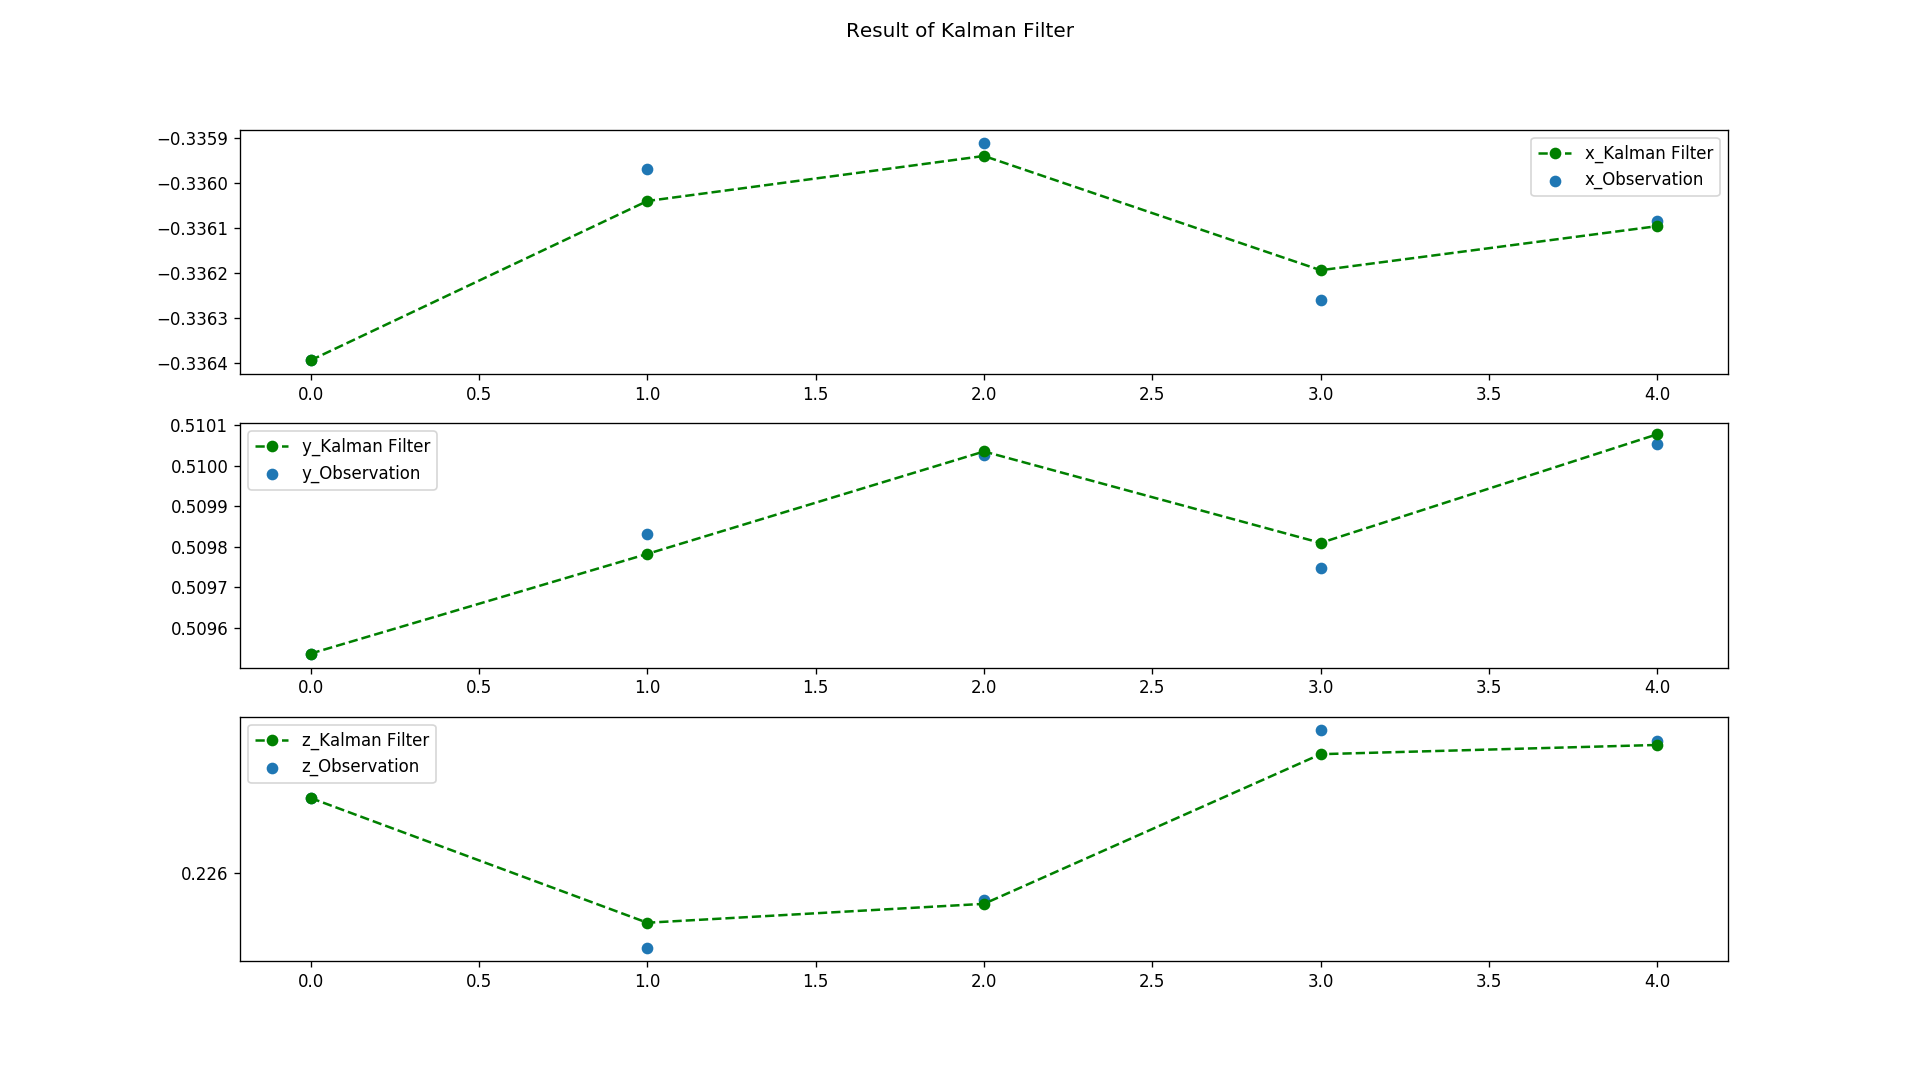
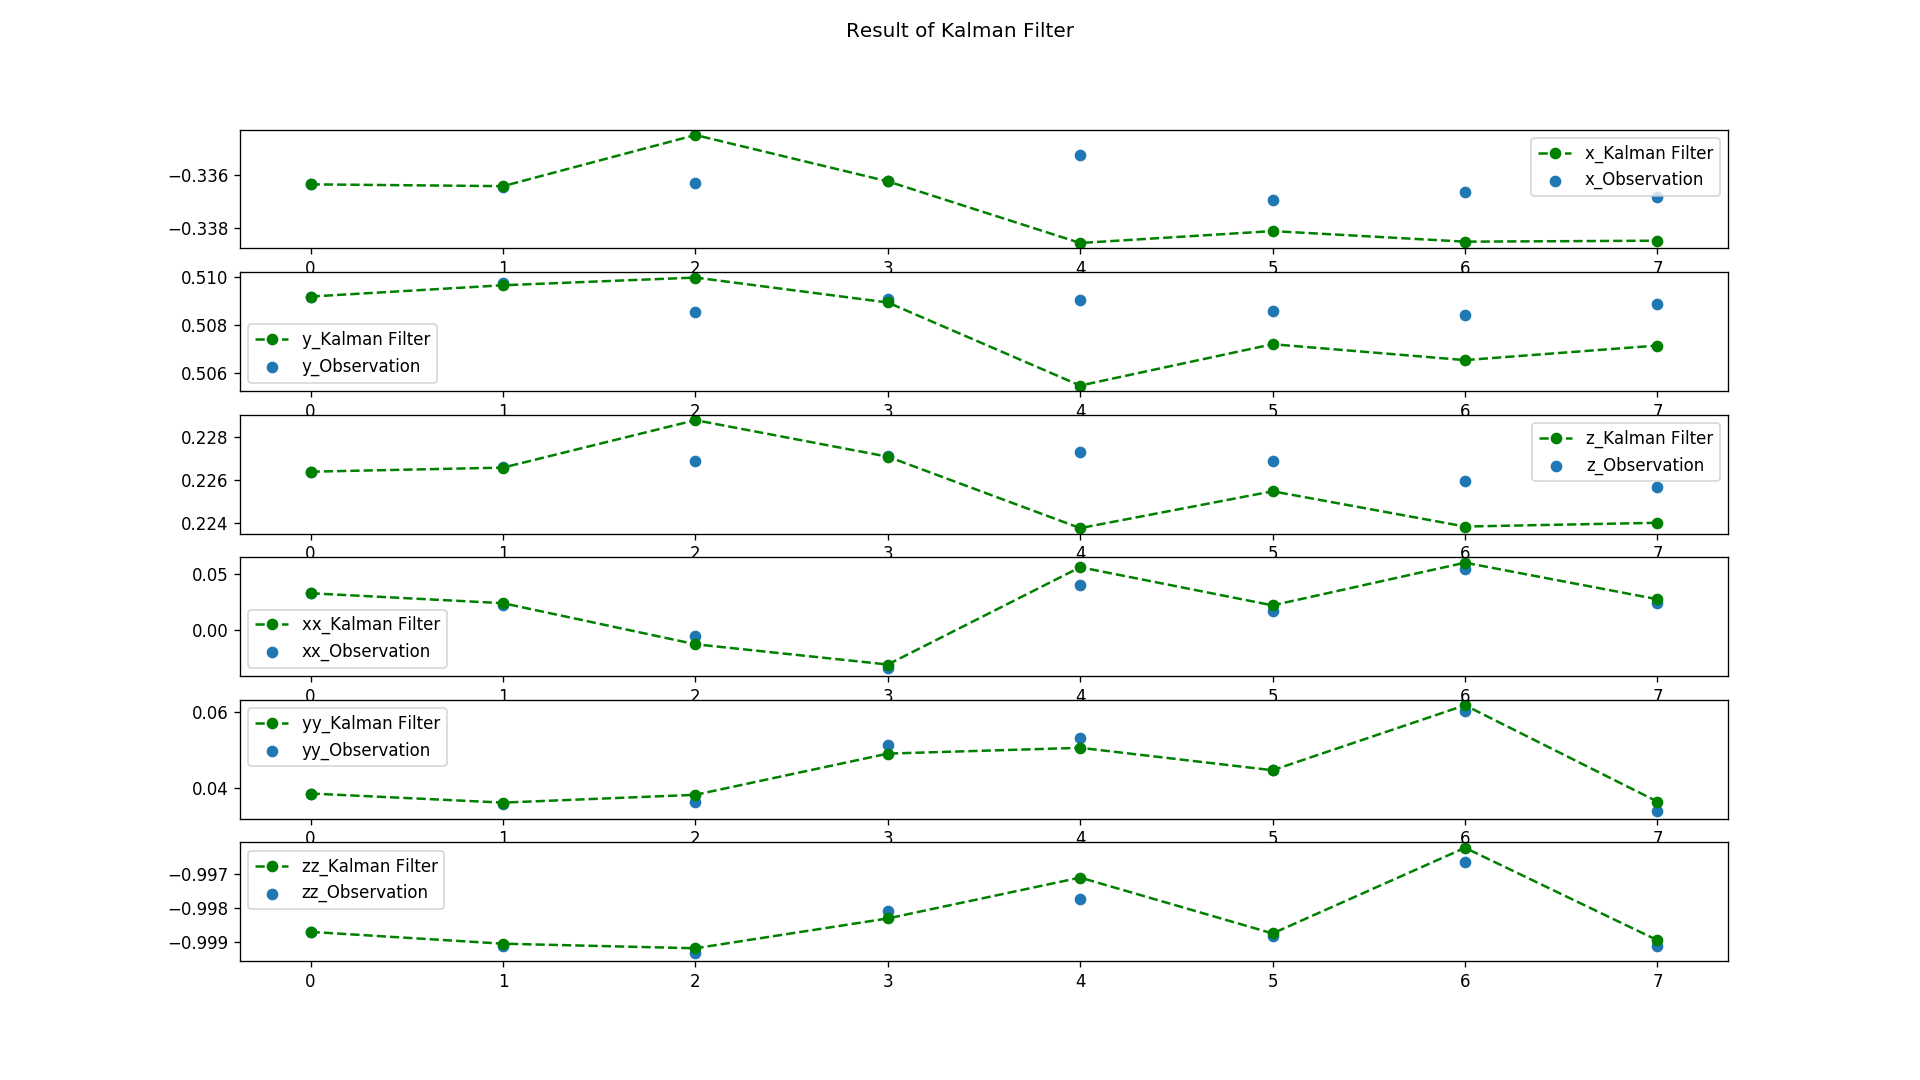
RANSAC_enabled

diff --git a/rokae/src/ur_real_robot/ur_control/scripts/kalman.py b/rokae/src/ur_real_robot/ur_control/scripts/kalman.py
@@ -28,23 +28,23 @@ class Kalman:
         self.itr_sum=0
         self.finished=False
         self.plt_time=0
-        # self.A = np.diag([1,1,1,1,1,1])
-        self.A=np.diag([1,1,1])
+        self.A = np.diag([1,1,1,1,1,1])
+        # self.A=np.diag([1,1,1])
         self.B = 0
         self.U1 = 0
-        # self.R = np.diag([0.01,0.01,0.01,0.2,0.2,0.2])
-        self.R = np.diag([0.01,0.01,0.01])
-        # self.P0=np.diag([0.05,0.05,0.05,1,1,1])
-        self.P0=np.diag([0.05,0.05,0.05])
-        # self.Q=np.diag([0,0,0,0,0,0])
-        self.Q=np.diag([0,0,0])
-        # self.H = np.diag([1,1,1,1,1,1])
-        self.H = np.diag([1,1,1])
+        self.R = np.diag([0.01,0.01,0.01,0.01,0.01,0.01])
+        # self.R = np.diag([0.01,0.01,0.01])
+        self.P0=np.diag([0.05,0.05,0.05,0.05,0.05,0.05])
+        # self.P0=np.diag([0.05,0.05,0.05])
+        self.Q=np.diag([0,0,0,0,0,0])
+        # self.Q=np.diag([0,0,0])
+        self.H = np.diag([1,1,1,1,1,1])
+        # self.H = np.diag([1,1,1])
         self.P1_list=[self.P0]
-        # self.X1_np=np.array([0,0,0,0,0,0]).reshape([6,1])
-        # self.Z1_np=np.array([0,0,0,0,0,0]).reshape([6,1])
-        self.X1_np=np.array([0,0,0]).reshape([3,1])
-        self.Z1_np=np.array([0,0,0]).reshape([3,1])
+        self.X1_np=np.array([0,0,0,0,0,0]).reshape([6,1])
+        self.Z1_np=np.array([0,0,0,0,0,0]).reshape([6,1])
+        # self.X1_np=np.array([0,0,0]).reshape([3,1])
+        # self.Z1_np=np.array([0,0,0]).reshape([3,1])
 
 
 
@@ -58,9 +58,9 @@ class Kalman:
         V = Z - np.dot(self.H, X10)
         K = np.dot(np.dot(P10, self.H.T), np.linalg.pinv(np.dot(np.dot(self.H, P10), self.H.T) + self.R))
         X1 = X10 + np.dot(K, V)
-        # Sqrt=math.sqrt(pow(X1[3,0],2)+pow(X1[4,0],2)+pow(X1[5,0],2))
-        # for i in range(3):
-        #     X1[i+3,0]=X1[i+3,0]/Sqrt
+        Sqrt=math.sqrt(pow(X1[3,0],2)+pow(X1[4,0],2)+pow(X1[5,0],2))
+        for i in range(3):
+            X1[i+3,0]=X1[i+3,0]/Sqrt
         P1 = np.dot(1 - np.dot(K, self.H), P10)
         return (X1, P1)
     
@@ -69,14 +69,24 @@ class Kalman:
         x=pose.position.x
         y=pose.position.y
         z=pose.position.z
-        # r=sci_R.from_quat([pose.orientation.x, pose.orientation.y, pose.orientation.z, pose.orientation.w])
-        # e=np.dot(r.as_dcm(),np.array([0,0,1]).reshape([3,1]))
-        # xx=e[0,0]
-        # yy=e[1,0]
-        # zz=e[2,0]
-        # Zi=np.array([x, y, z,xx,yy,zz]).reshape([6, 1])
-        # print(xx,yy,zz)
-        Zi=np.array([x, y, z]).reshape([3, 1])
+        r=sci_R.from_quat([pose.orientation.x, pose.orientation.y, pose.orientation.z, pose.orientation.w])
+        e=np.dot(r.as_dcm(),np.array([0,0,1]).reshape([3,1]))
+        xx=e[0,0]
+        yy=e[1,0]
+        zz=e[2,0]
+        while (zz>-0.996):
+            xx=xx/2
+            yy=yy/2
+            zz=zz-1
+            sqrt=math.sqrt(pow(xx,2)+pow(yy,2)+pow(zz,2))
+            xx=xx/sqrt
+            yy=yy/sqrt
+            zz=zz/sqrt           
+
+
+        Zi=np.array([x, y, z,xx,yy,zz]).reshape([6, 1])
+        print(xx,yy,zz)
+        # Zi=np.array([x, y, z]).reshape([3, 1])
         print ("the %d-th iteration"%(s))
         if (s==0):
             self.X1_np= np.copy(Zi)
@@ -88,53 +98,53 @@ class Kalman:
             Z1_pose.position.y = Zi[1,0]
             Z1_pose.position.z = Zi[2,0]
 
-            # Z1_vector=Zi[[3,4,5],:].reshape([1,3])
-            # Z1_quat=(self.transform_vector(Z1_vector)).reshape([1,4])
-            # Z1_pose.orientation.x = Z1_quat[0,0]
-            # Z1_pose.orientation.y = Z1_quat[0,1]
-            # Z1_pose.orientation.z = Z1_quat[0,2]
-            # Z1_pose.orientation.w= Z1_quat[0,3]
+            Z1_vector=Zi[[3,4,5],:].reshape([1,3])
+            Z1_quat=(self.transform_vector(Z1_vector)).reshape([1,4])
+            Z1_pose.orientation.x = Z1_quat[0,0]
+            Z1_pose.orientation.y = Z1_quat[0,1]
+            Z1_pose.orientation.z = Z1_quat[0,2]
+            Z1_pose.orientation.w= Z1_quat[0,3]
             
             return Z1_pose
 
         else:
-            # Xi = self.X1_np[:, s - 1].reshape([6, 1])
-            Xi = self.X1_np[:, s - 1].reshape([3, 1])
+            Xi = self.X1_np[:, s - 1].reshape([6, 1])
+            # Xi = self.X1_np[:, s - 1].reshape([3, 1])
             Pi = self.P1_list[s - 1]
             X10, P10 = self.kf_predict(Xi, Pi)
             X1, P1=self. kf_update(X10, P10, Zi)
+
             self.Z1_np = np.concatenate([self.Z1_np, Zi], axis=1)
             self.X1_np = np.concatenate([self.X1_np, X1], axis=1)
             self.P1_list.append(P1)
             self.itr_time+= 1
             self.itr_sum+= 1
 
-            # X1_vector=X1[[3,4,5],:].reshape([1,3])
-            # Xi_vector=Xi[[3,4,5],:].reshape([3,1])
-            # X1_quat=(self.transform_vector(X1_vector)).reshape([1,4])
+            X1_vector=X1[[3,4,5],:].reshape([1,3])
+            Xi_vector=Xi[[3,4,5],:].reshape([3,1])
+            X1_quat=(self.transform_vector(X1_vector)).reshape([1,4])
 
             if(self.itr_time==self.itr_num):
                 self.finished=True
             else:
                 dist=math.sqrt(pow(X1[0,0]-Xi[0,0],2)+pow(X1[1,0]-Xi[1,0],2)+pow(X1[2,0]-Xi[2,0],2))
                 
-                # ang_mat=np.dot(X1_vector,Xi_vector)
-                # ang_dist=ang_mat[0,0]
-                # print('ang_dist:')
-                # print(ang_dist)
-                # if (dist<0.001) and (ang_dist>0.996):
-
-                if (dist < 0.0005):
+                ang_mat=np.dot(X1_vector,Xi_vector)
+                ang_dist=ang_mat[0,0]
+                print('ang_dist:')
+                print(ang_dist)
+                if (dist<0.001) and (ang_dist>0.999):
+                # if (dist < 0.0005):
                     self.finished=True
             X1_pose = geometry_msgs.msg.Pose()
             X1_pose.position.x = X1[0,0]
             X1_pose.position.y = X1[1,0]
             X1_pose.position.z = X1[2,0]
 
-            # X1_pose.orientation.x = X1_quat[0,0]
-            # X1_pose.orientation.y = X1_quat[0,1]
-            # X1_pose.orientation.z = X1_quat[0,2]
-            # X1_pose.orientation.w= X1_quat[0,3]
+            X1_pose.orientation.x = X1_quat[0,0]
+            X1_pose.orientation.y = X1_quat[0,1]
+            X1_pose.orientation.z = X1_quat[0,2]
+            X1_pose.orientation.w= X1_quat[0,3]
 
             return X1_pose
 
@@ -153,19 +163,19 @@ class Kalman:
 
     def get_former_pose(self):
         s=self.itr_sum
-        # Xi=self.X1_np[:, s - 1].reshape([6, 1])
-        Xi=self.X1_np[:, s - 1].reshape([3, 1])        
+        Xi=self.X1_np[:, s - 1].reshape([6, 1])
+        # Xi=self.X1_np[:, s - 1].reshape([3, 1])        
         Xi_pose = geometry_msgs.msg.Pose()
         Xi_pose.position.x = Xi[0,0]
         Xi_pose.position.y = Xi[1,0]
         Xi_pose.position.z = Xi[2,0]
 
-        # Xi_vector=Xi[[3,4,5],:].reshape([1,3])
-        # Xi_quat=(self.transform_vector(Xi_vector)).reshape([1,4])
-        # Xi_pose.orientation.x = Xi_quat[0,0]
-        # Xi_pose.orientation.y = Xi_quat[0,1]
-        # Xi_pose.orientation.z = Xi_quat[0,2]
-        # Xi_pose.orientation.w= Xi_quat[0,3]
+        Xi_vector=Xi[[3,4,5],:].reshape([1,3])
+        Xi_quat=(self.transform_vector(Xi_vector)).reshape([1,4])
+        Xi_pose.orientation.x = Xi_quat[0,0]
+        Xi_pose.orientation.y = Xi_quat[0,1]
+        Xi_pose.orientation.z = Xi_quat[0,2]
+        Xi_pose.orientation.w= Xi_quat[0,3]
 
         return Xi_pose
 
@@ -179,44 +189,45 @@ class Kalman:
 
     def plot(self):
         if (self.itr_time!=0):
+
+            # np.savetxt("filt_25.csv",self.X1_np,delimiter=",")
+            # np.savetxt("obs_25.csv",self.Z1_np,delimiter=",")
+
             fig = plt.figure(figsize=(16,9)  , dpi=120)
 
 
-            # ax1 = fig.add_subplot(6, 1, 1)
-            # ax2 = fig.add_subplot(6, 1, 2)
-            # ax3 = fig.add_subplot(6, 1, 3)
-            # ax4 = fig.add_subplot(6, 1, 4)
-            # ax5 = fig.add_subplot(6, 1, 5)
-            # ax6 = fig.add_subplot(6, 1, 6)
-            ax1 = fig.add_subplot(3, 1, 1)
-            ax2 = fig.add_subplot(3, 1, 2)
-            ax3 = fig.add_subplot(3, 1, 3)
+            ax1 = fig.add_subplot(6, 1, 1)
+            ax2 = fig.add_subplot(6, 1, 2)
+            ax3 = fig.add_subplot(6, 1, 3)
+            ax4 = fig.add_subplot(6, 1, 4)
+            ax5 = fig.add_subplot(6, 1, 5)
+            ax6 = fig.add_subplot(6, 1, 6)
+            # ax1 = fig.add_subplot(3, 1, 1)
+            # ax2 = fig.add_subplot(3, 1, 2)
+            # ax3 = fig.add_subplot(3, 1, 3)
             print('plot is working')
 
             ax1.plot(self.X1_np[0, :], 'go--', label="x_Kalman Filter")
             ax2.plot(self.X1_np[1, :], 'go--', label="y_Kalman Filter")
             ax3.plot(self.X1_np[2, :], 'go--', label="z_Kalman Filter")
-            # ax4.plot(self.X1_np[3, :], 'go--', label="xx_Kalman Filter")
-            # ax5.plot(self.X1_np[4, :], 'go--', label="yy_Kalman Filter")
-            # ax6.plot(self.X1_np[5, :], 'go--', label="zz_Kalman Filter")
-            x_major_locator = MultipleLocator(0.001)
+            ax4.plot(self.X1_np[3, :], 'go--', label="xx_Kalman Filter")
+            ax5.plot(self.X1_np[4, :], 'go--', label="yy_Kalman Filter")
+            ax6.plot(self.X1_np[5, :], 'go--', label="zz_Kalman Filter")
+
 
             step=self.itr_sum
             ax1.scatter(np.arange(step), self.Z1_np[0,:].reshape(step,1), label="x_Observation", marker='o')
-            plt.gca().yaxis.set_major_locator(x_major_locator)
             ax1.legend()
             ax2.scatter(np.arange(step), self.Z1_np[1,:].reshape(step,1), label="y_Observation", marker='o')
-            plt.gca().yaxis.set_major_locator(x_major_locator)
             ax2.legend()
             ax3.scatter(np.arange(step), self.Z1_np[2,:].reshape(step,1), label="z_Observation", marker='o')
-            plt.gca().yaxis.set_major_locator(x_major_locator)
             ax3.legend()
-            # ax4.scatter(np.arange(step), self.Z1_np[3,:].reshape(step,1), label="xx_Observation", marker='o') 
-            # ax4.legend()
-            # ax5.scatter(np.arange(step), self.Z1_np[4,:].reshape(step,1), label="yy_Observation", marker='o')
-            # ax5.legend()
-            # ax6.scatter(np.arange(step), self.Z1_np[5,:].reshape(step,1), label="zz_Observation", marker='o')
-            # ax6.legend()
+            ax4.scatter(np.arange(step), self.Z1_np[3,:].reshape(step,1), label="xx_Observation", marker='o') 
+            ax4.legend()
+            ax5.scatter(np.arange(step), self.Z1_np[4,:].reshape(step,1), label="yy_Observation", marker='o')
+            ax5.legend()
+            ax6.scatter(np.arange(step), self.Z1_np[5,:].reshape(step,1), label="zz_Observation", marker='o')
+            ax6.legend()
 
 
             plt.legend()

diff --git a/rokae/src/ur_real_robot/ur_control/scripts/test_base.py b/rokae/src/ur_real_robot/ur_control/scripts/test_base.py
@@ -344,16 +344,16 @@ class TestBase(object):
         real_trans.transform.translation.y = X1_pose.position.y
         real_trans.transform.translation.z = X1_pose.position.z
         
-        q = tf.transformations.quaternion_from_euler(-math.pi, 0, 0.5*math.pi)
-        real_trans.transform.rotation.x =q[0]
-        real_trans.transform.rotation.y =q[1]
-        real_trans.transform.rotation.z =q[2]
-        real_trans.transform.rotation.w=q[3]
+        # q = tf.transformations.quaternion_from_euler(-math.pi, 0, 0.5*math.pi)
+        # real_trans.transform.rotation.x =q[0]
+        # real_trans.transform.rotation.y =q[1]
+        # real_trans.transform.rotation.z =q[2]
+        # real_trans.transform.rotation.w=q[3]
 
-        # real_trans.transform.rotation.x =X1_pose.orientation.x
-        # real_trans.transform.rotation.y =X1_pose.orientation.y
-        # real_trans.transform.rotation.z =X1_pose.orientation.z
-        # real_trans.transform.rotation.w=X1_pose.orientation.w
+        real_trans.transform.rotation.x =X1_pose.orientation.x
+        real_trans.transform.rotation.y =X1_pose.orientation.y
+        real_trans.transform.rotation.z =X1_pose.orientation.z
+        real_trans.transform.rotation.w=X1_pose.orientation.w
 
         # real_pose_in_effector_frame = geometry_msgs.msg.Pose()
         # real_pose_in_effector_frame.position.x = 0

diff --git a/rokae/src/ur_real_robot/ur_control/scripts/RANSAC_plane.py b/rokae/src/ur_real_robot/ur_control/scripts/RANSAC_plane.py
@@ -58,7 +58,6 @@ def cal_ransac_plane(data, min_samples=3, residual_threshold=0.001,
                      max_trials=1000, stop_sample_num=np.inf, stop_residuals_sum=0,
                      stop_probability=1):
     """
-
     :param data: array the array of 3D points
     :param min_samples: int the minimum number of data points to fit a model to.
     :param residual_threshold: float maximum distance for a data point to be classified as an inlier.
@@ -87,6 +86,8 @@ def depth_filter(point_cloud):
         filter_point_cloud.append(point)
     return np.array(filter_point_cloud)
 
+def clamp(x,minn,maxn):
+    return max(min(maxn, x), minn)
 
 def generate_selected_points(tl_x, tl_y, br_x, br_y, all_info):
     delta=10
@@ -94,6 +95,10 @@ def generate_selected_points(tl_x, tl_y, br_x, br_y, all_info):
     tl_y=tl_y-delta
     br_x=br_x+delta
     br_y=br_y+delta
+    tl_x = clamp(tl_x, 0, all_info['depth_img'].shape[1])
+    br_x = clamp(br_x, 0, all_info['depth_img'].shape[1])
+    tl_y = clamp(tl_y, 0, all_info['depth_img'].shape[0])
+    br_y = clamp(br_y, 0, all_info['depth_img'].shape[0])
     roi = rgb2gray(all_info['rgb_img'][tl_y:br_y, tl_x:br_x])
     # cv2.imshow('roi', roi)
     # cv2.waitKey(0)
